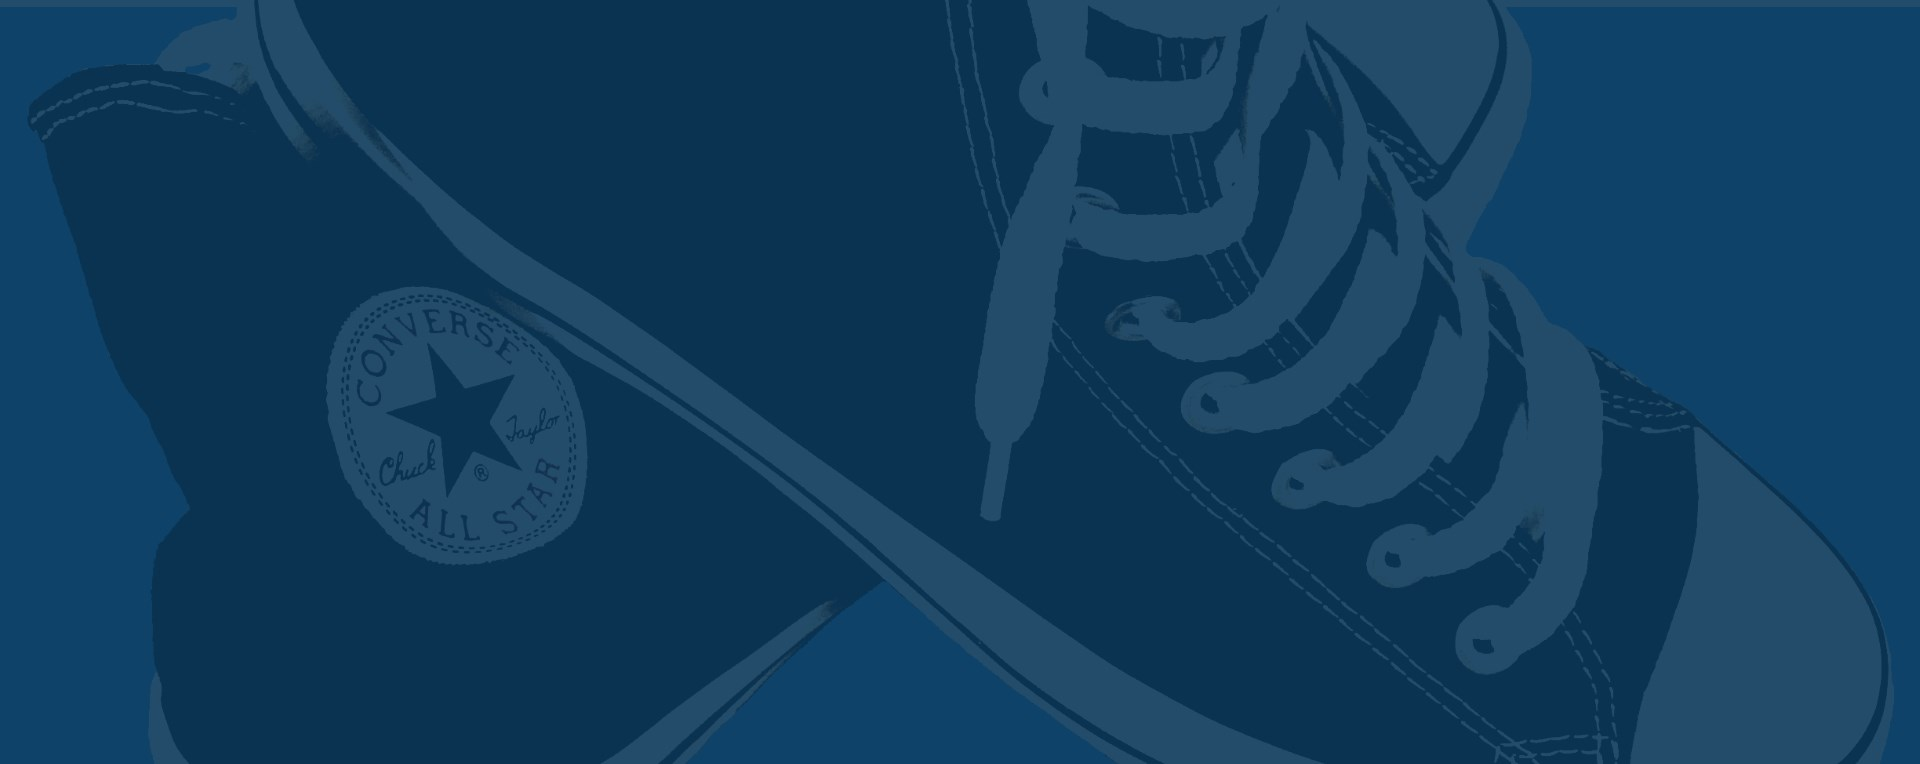
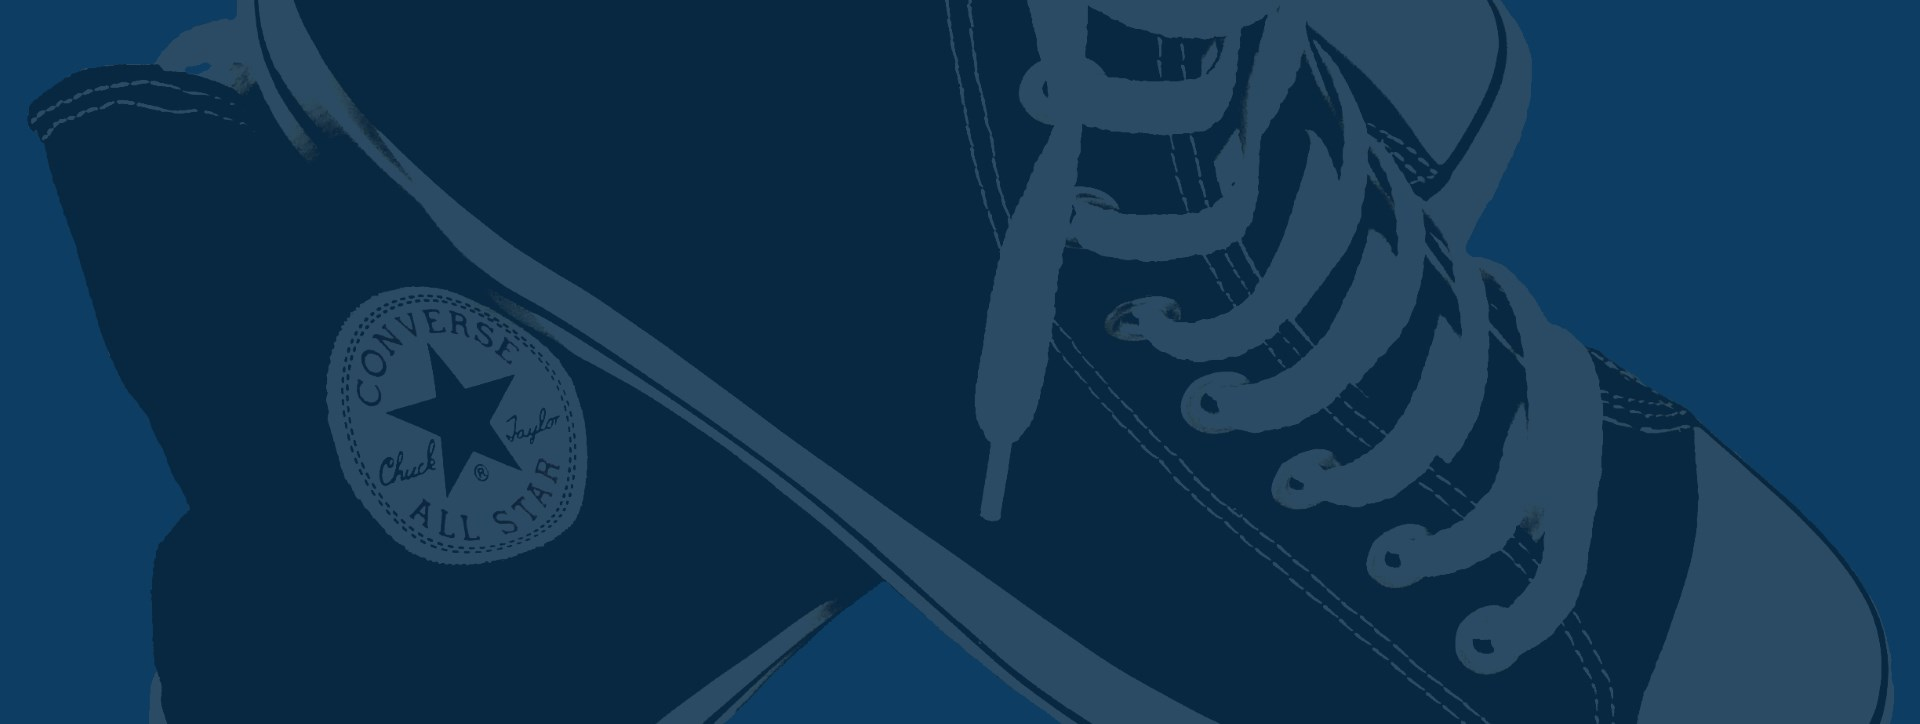
Improve readability and make web site responsive

diff --git a/app/styles/main.scss b/app/styles/main.scss
@@ -7,9 +7,15 @@
 
 body {
   margin: 0;
-  font-size: 20px;
   font-family: 'Open Sans', sans-serif;
   color: $primary-text-color;
+  font-size: 20px;
+  @media(max-width: $small-screen-width-limit) {
+    font-size: 18px;
+  }
+  @media(max-width: $xsmall-screen-width-limit) {
+    font-size: 16px;
+  }
 }
   
 h1 {
@@ -31,11 +37,15 @@ p {
 #header {
   background-color: $header-background-color;
   background-image: url("/images/header.jpg");
-  color: $light-text-color;
-  height: 724px;
-  vertical-align: middle;
   background-position: center center;
   background-repeat: no-repeat;
+  color: $light-text-color;
+  @media(max-height: $small-screen-height-limit) {
+    height: 250px;
+    background-image: url("/images/header_small.jpg");
+  }
+  height: 724px;
+  vertical-align: middle;
   display: table;
   width: 100%;
   text-shadow: 0 0 2px #000000;
@@ -45,24 +55,50 @@ p {
     vertical-align: middle;
     text-align: center;
     text-transform: uppercase;
+    padding: $main-margin;
   }
   
   h1 {
     font-size: 6.4em;
     font-weight: bold;
     margin-bottom: $main-margin;
+    @media(max-width: $small-screen-width-limit) {
+        margin-bottom: $small-main-margin;
+    }
+    @media(max-width: $medium-screen-width-limit) { 
+      font-size: 4.8em;
+    }
   }
   
   p {
     font-size: 1.6em;
   }
+  
+  
+  
+  @media(max-width: $small-screen-width-limit), (max-height: $small-screen-height-limit) {
+    #header-content {
+      padding: 12px;
+    }
+    
+    h1 {
+      font-size: 2em;
+    }
+    
+    p {
+      font-size: 1em;
+    }
+  }
 }
 
 #content {
   box-shadow: 0 -4px 4px -2px rgba(50, 50, 50, 0.75);
-  
-  section {
-    padding: $main-padding;
+}
+
+.content-section {
+  padding: $main-padding;
+  @media(max-width: $small-screen-width-limit) {
+    padding: $small-main-padding;
   }
 }
 
@@ -76,27 +112,35 @@ p {
       text-transform: uppercase;
       text-align: center;
       margin-bottom: $main-margin;
+      @media(max-width: $small-screen-width-limit) {
+        margin-bottom: $small-main-margin;
+      }
     }
     
     p {
       text-align: center;
-      line-height: 1.8;
+      line-height: 1.45;
     }
   }
 
 #footer {
   background-color: $accent-color;
   color: $light-text-color;
-  padding: $main-padding;
   
   #social-links {
     list-style: none;
     padding: 0;
     text-align: center;
     margin: 0 0 $main-margin 0;
+    @media(max-width: $small-screen-width-limit) {
+      margin: 0 0 $small-main-margin 0;
+    }
     
     .li-margin {
       margin-right: $main-margin;
+      @media(max-width: $small-screen-width-limit) {
+        margin-right: $small-main-margin;
+      }
     }
       
     li {

diff --git a/app/index.html b/app/index.html
@@ -35,7 +35,7 @@
     </header>
     
     <div id="content">
-      <section>
+      <section class="content-section">
         <div class="content-box">
           <h1>About <span class="accent">me</span></h1>
           <p>
@@ -44,7 +44,7 @@
         </div>
         </section>
     </div>
-    <footer id="footer">
+    <footer id="footer" class="content-section">
       <div class="content-box">
         <ul id="social-links">
           <li class="li-margin">

diff --git a/app/styles/_variables.scss b/app/styles/_variables.scss
@@ -1,8 +1,15 @@
 $light-text-color: #F5FAFE;
-$header-background-color: #0E4269;
+$header-background-color: #0D3D62;
 $accent-color: #FF6E40;
 $primary-text-color: #212121;
 
 $main-padding: 80px;
+$small-main-padding: 28px;
 $title-text-size: 2.4em;
 $main-margin: 28px;
+$small-main-margin: 16px;
+
+$medium-screen-width-limit: 1200px;
+$small-screen-width-limit: 600px;
+$xsmall-screen-width-limit: 400px;
+$small-screen-height-limit: 850px;
